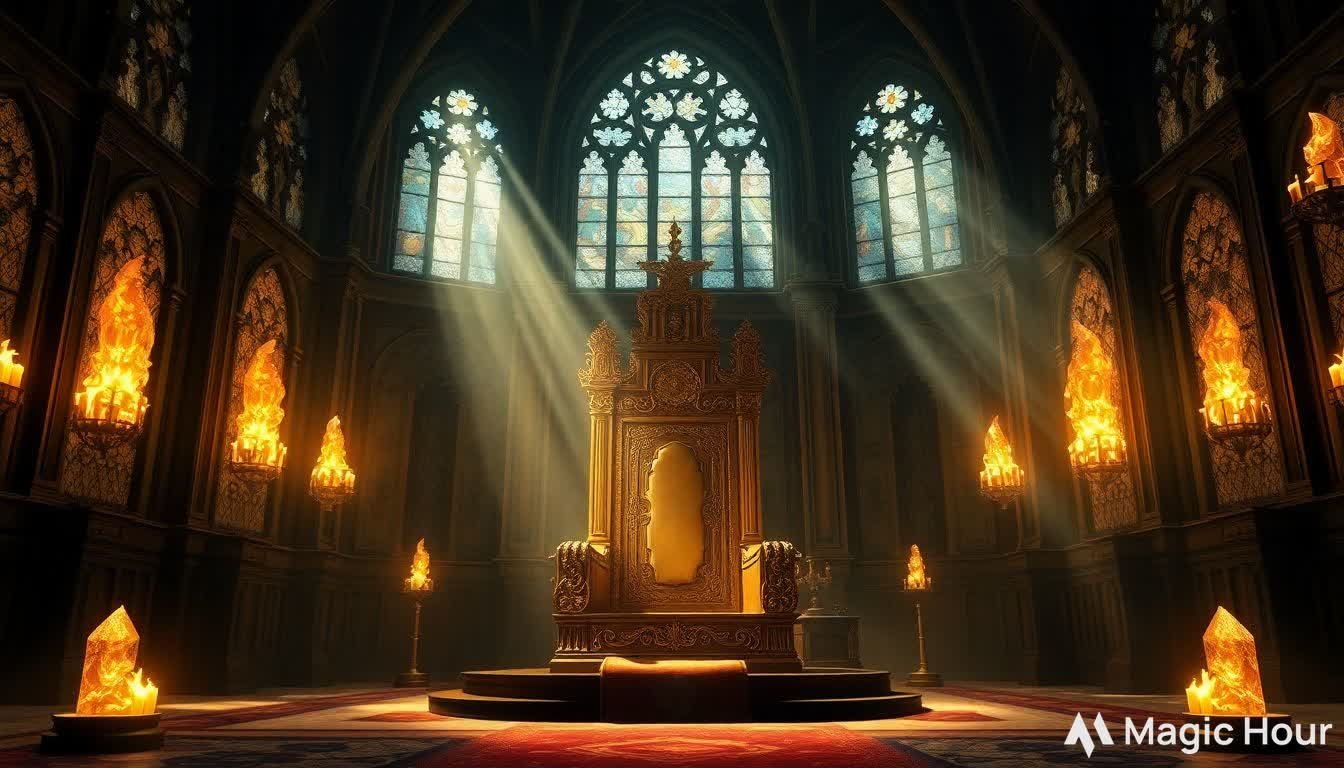
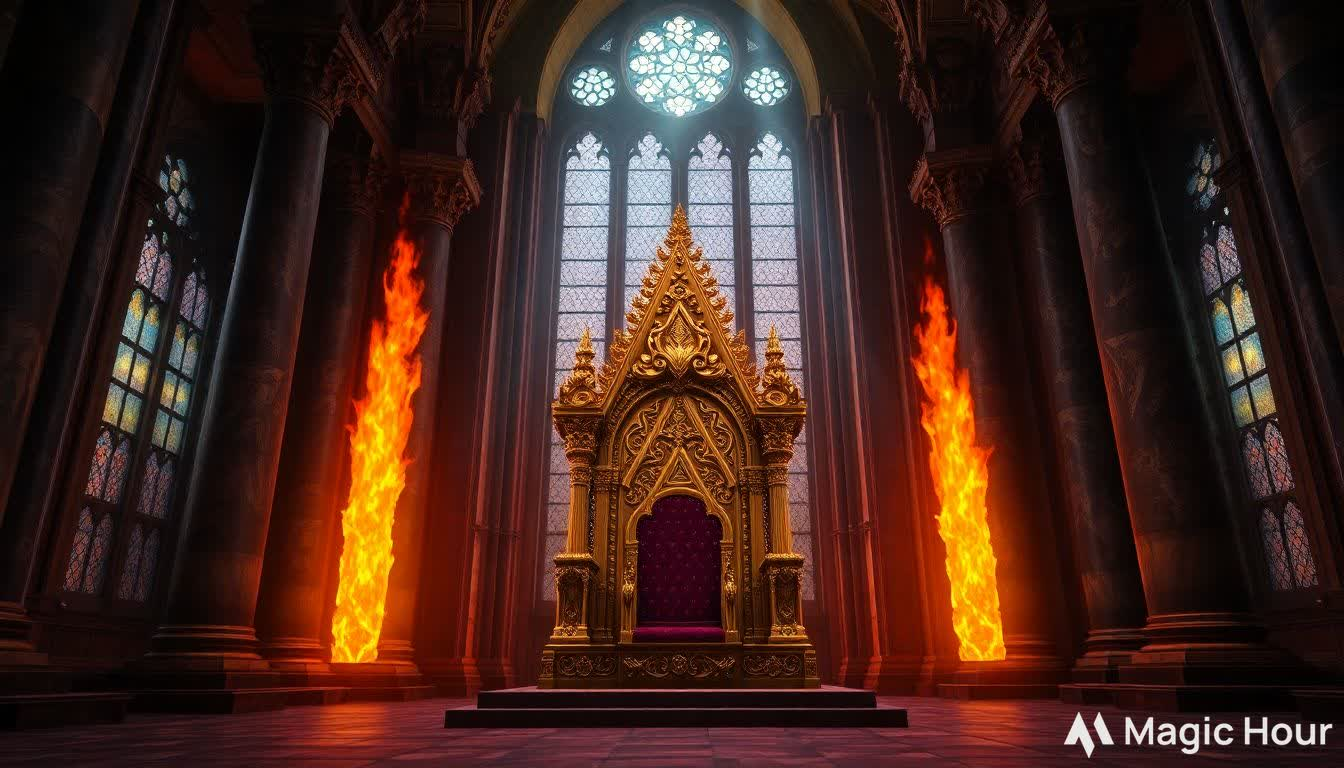
Update title page with more majestic throne room scene

diff --git a/scripts/generate-portraits.js b/scripts/generate-portraits.js
@@ -17,7 +17,7 @@ if (!fs.existsSync(OUTPUT_DIR)) {
 const portraits = [
   {
     id: 'title_page',
-    prompt: 'Epic medieval fantasy title page, grand throne room with a majestic golden throne, magical ember crystals floating and glowing with intense energy, dramatic rays of light streaming through ornate stained glass windows, dark atmospheric fantasy style, professional digital art, hyper-detailed architectural elements, painted look, fantasy game art style, cinematic lighting, 8K resolution'
+    prompt: 'Majestic medieval fantasy throne room interior, massive ornate golden throne centered, floating magical ember crystals casting ethereal orange glow, towering marble columns with intricate carvings, dramatic god rays piercing through tall stained glass windows, rich royal purple and gold color scheme, dark atmospheric fantasy style, volumetric lighting, cinematic composition, extremely detailed architectural elements, professional digital art, hyper-realistic textures, epic scale, 8K resolution'
   },
   {
     id: 'page_5',
